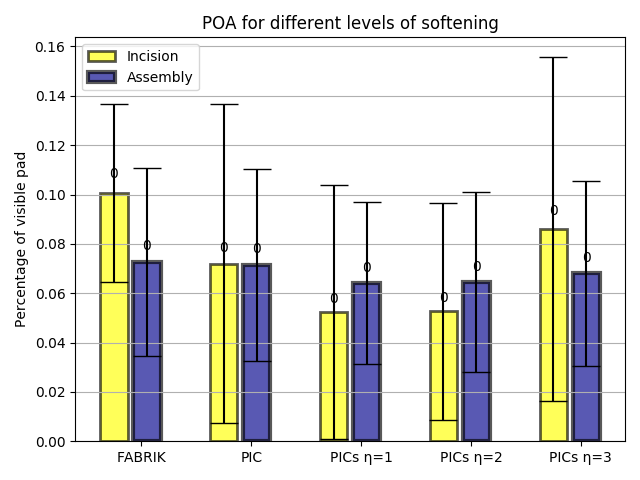
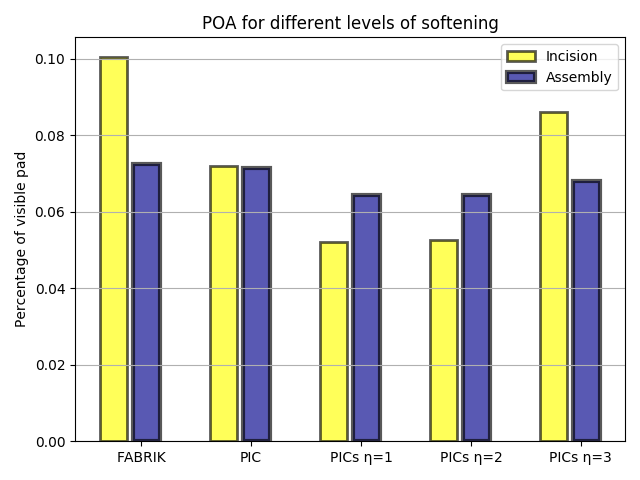
all results

diff --git a/data_graph.py b/data_graph.py
@@ -3,19 +3,24 @@ from os import path
 import matplotlib.pyplot as plt
 import matplotlib.colors as mcolors
 
+def autolabel(rects):
+    for rect in rects:
+        h = rect.get_height()
+        ax.text(rect.get_x()+rect.get_width()/2., 1.05*h, '%d'%int(h),
+                ha='center', va='bottom')
+
 incision_tasks = ['incision_curvy1', 'incision_straight3']
 assembly_tasks = ['assembly1','assebly2','assembly3']
 robots = ["yumi","baxter"]
 algorithms = ['fabrik','poseimit0', 'poseimit1', 'poseimit2', 'poseimit3']
 out_path = 'data/rss_results/'
+# out_path = 'data/unfiltered_results/'
 pose_file = "pose.txt"
 occlussion_file = "occlussion.txt"
 distance_file = "distances.txt"
-pose_writer = open(out_path+pose_file,"w+")
-occlussion_writer = open(out_path+occlussion_file, "w+")
-distance_writer = open(out_path+distance_file, "w+")
 show_std = True
 dec = "{:.2f}"
+show_std = False
 
 ################# CALCULATE THE INCISION ########################
 
@@ -90,6 +95,7 @@ for algorithm in algorithms:
 print(asb_occ_means)
 print(asb_occ_stds)
 
+#################### OCCLUSSION #########################
 # Create lists for the plot
 x_pos = np.arange(len(algorithms))
 width = 0.25
@@ -98,11 +104,14 @@ inc_error = inc_occ_stds
 asb_CTEs = asb_occ_means
 asb_error = asb_occ_stds
 
-#################### OCCLUSSION #########################
 # Build the plot
 fig, ax = plt.subplots()
-barplot_1 = ax.bar(x_pos, inc_CTEs, width,  yerr=inc_error, alpha=0.65, ecolor='black', edgecolor='black', linewidth=2, capsize=10, color='yellow')
-barplot_2 = ax.bar(x_pos + width + width*0.2, asb_CTEs, width,  yerr=asb_error, alpha=0.65, ecolor='black', edgecolor='black', linewidth=3, capsize=10, color='darkblue')
+if show_std:
+    barplot_1 = ax.bar(x_pos, inc_CTEs, width,  yerr=inc_error, alpha=0.65, ecolor='black', edgecolor='black', linewidth=2, capsize=10, color='yellow')
+    barplot_2 = ax.bar(x_pos + width + width*0.2, asb_CTEs, width,  yerr=asb_error, alpha=0.65, ecolor='black', edgecolor='black', linewidth=3, capsize=10, color='darkblue')
+else:
+    barplot_1 = ax.bar(x_pos, inc_CTEs, width,  alpha=0.65, ecolor='black', edgecolor='black', linewidth=2, capsize=10, color='yellow')
+    barplot_2 = ax.bar(x_pos + width + width*0.2, asb_CTEs, width,  alpha=0.65, ecolor='black', edgecolor='black', linewidth=3, capsize=10, color='darkblue')
 # barplot[0].set_color('yellow')
 # barplot[1].set_color('coral')
 # barplot[2].set_color('crimson')
@@ -115,33 +124,33 @@ ax.set_title('POA for different levels of softening')
 ax.yaxis.grid(True)
 ax.legend( (barplot_1[0], barplot_2[0]), ('Incision', 'Assembly') )
 
-def autolabel(rects):
-    for rect in rects:
-        h = rect.get_height()
-        ax.text(rect.get_x()+rect.get_width()/2., 1.05*h, '%d'%int(h),
-                ha='center', va='bottom')
-
-autolabel(barplot_1)
-autolabel(barplot_2)
-
 # Save the figure and show
 plt.tight_layout()
 plt.savefig(out_path+'occ_graph.png')
 plt.show()
 
+#################### ERROR DISTANCE #########################
 # Create lists for the plot
 x_pos = np.arange(len(algorithms))
-CTEs = dist_means
-error = dist_stds
+width = 0.25
+inc_CTEs = inc_dist_means
+inc_error = inc_dist_stds
+asb_CTEs = asb_dist_means
+asb_error = asb_dist_stds
 
 # Build the plot
 fig, ax = plt.subplots()
-barplot = ax.bar(x_pos, CTEs, yerr=error, align='center', alpha=0.65, ecolor='black', edgecolor='black', linewidth=2, capsize=10)
-barplot[0].set_color('yellow')
-barplot[1].set_color('coral')
-barplot[2].set_color('crimson')
-barplot[3].set_color('darkmagenta')
-barplot[4].set_color('darkblue')
+if show_std:
+    barplot_1 = ax.bar(x_pos, inc_CTEs, width,  yerr=inc_error, alpha=0.65, ecolor='black', edgecolor='black', linewidth=2, capsize=10, color='yellow')
+    barplot_2 = ax.bar(x_pos + width + width*0.2, asb_CTEs, width,  yerr=asb_error, alpha=0.65, ecolor='black', edgecolor='black', linewidth=3, capsize=10, color='darkblue')
+else:
+    barplot_1 = ax.bar(x_pos, inc_CTEs, width,  alpha=0.65, ecolor='black', edgecolor='black', linewidth=2, capsize=10, color='yellow')
+    barplot_2 = ax.bar(x_pos + width + width*0.2, asb_CTEs, width,  alpha=0.65, ecolor='black', edgecolor='black', linewidth=3, capsize=10, color='darkblue')
+# barplot[0].set_color('yellow')
+# barplot[1].set_color('coral')
+# barplot[2].set_color('crimson')
+# barplot[3].set_color('darkmagenta')
+# barplot[4].set_color('darkblue')
 ax.set_ylabel('MSE (cm)')
 ax.set_xticks(x_pos)
 ax.set_xticklabels(['FABRIK','PIC','PICs \u03B7=1', 'PICs \u03B7=2', 'PICs \u03B7=3'])
@@ -153,25 +162,30 @@ plt.tight_layout()
 plt.savefig(out_path+'dist_graph.png')
 plt.show()
 
-# Create lists for the plot
-x_pos = np.arange(len(algorithms))
-CTEs = pose_means
-error = pose_stds
-print(pose_means)
-print(pose_stds)
+#################### POSE IMITATION #########################
+inc_CTEs = inc_pose_means
+inc_error = inc_pose_stds
+asb_CTEs = asb_pose_means
+asb_error = asb_pose_stds
 
 # Build the plot
 fig, ax = plt.subplots()
-barplot = ax.bar(x_pos, CTEs, yerr=error, align='center', alpha=0.65, ecolor='black', edgecolor='black', linewidth=2, capsize=10)
-barplot[0].set_color('yellow')
-barplot[1].set_color('coral')
-barplot[2].set_color('crimson')
-barplot[3].set_color('darkmagenta')
-barplot[4].set_color('darkblue')
-ax.set_ylabel('Pose imitation accuracy')
+if show_std:
+    barplot_1 = ax.bar(x_pos, inc_CTEs, width,  yerr=inc_error, alpha=0.65, ecolor='black', edgecolor='black', linewidth=2, capsize=10, color='yellow')
+    barplot_2 = ax.bar(x_pos + width + width*0.2, asb_CTEs, width,  yerr=asb_error, alpha=0.65, ecolor='black', edgecolor='black', linewidth=3, capsize=10, color='darkblue')
+else:
+    barplot_1 = ax.bar(x_pos, inc_CTEs, width,  alpha=0.65, ecolor='black', edgecolor='black', linewidth=2, capsize=10, color='yellow')
+    barplot_2 = ax.bar(x_pos + width + width*0.2, asb_CTEs, width,  alpha=0.65, ecolor='black', edgecolor='black', linewidth=3, capsize=10, color='darkblue')
+# barplot[0].set_color('yellow')
+# barplot[1].set_color('coral')
+# barplot[2].set_color('crimson')
+# barplot[3].set_color('darkmagenta')
+# barplot[4].set_color('darkblue')
+ax.set_ylabel('Accuracy of pose similarily w.r.t the human')
+ax.set_xticks(x_pos+width)
 ax.set_xticks(x_pos)
 ax.set_xticklabels(['FABRIK','PIC','PICs \u03B7=1', 'PICs \u03B7=2', 'PICs \u03B7=3'])
-ax.set_title('Pose Imitation Accuracy  with different levels of softening')
+ax.set_title('Pose similarity with the human for different levels of softening')
 ax.yaxis.grid(True)
 
 # Save the figure and show

diff --git a/batch_processing.py b/batch_processing.py
@@ -3,8 +3,8 @@ from os import path
 tasks = ['incision_curvy1', 'incision_straight3', 'assembly1', 'assembly2', 'assembly3']
 robots = ["yumi","baxter"]
 algorithms = ['fabrik', 'poseimit0', 'poseimit3']
-# out_path = 'data/unfiltered_results/'
-out_path = 'data/rss_results/'
+out_path = 'data/unfiltered_results/'
+# out_path = 'data/rss_results/'
 pose_file = "pose.txt"
 occlussion_file = "occlussion.txt"
 distance_file = "distances.txt"
